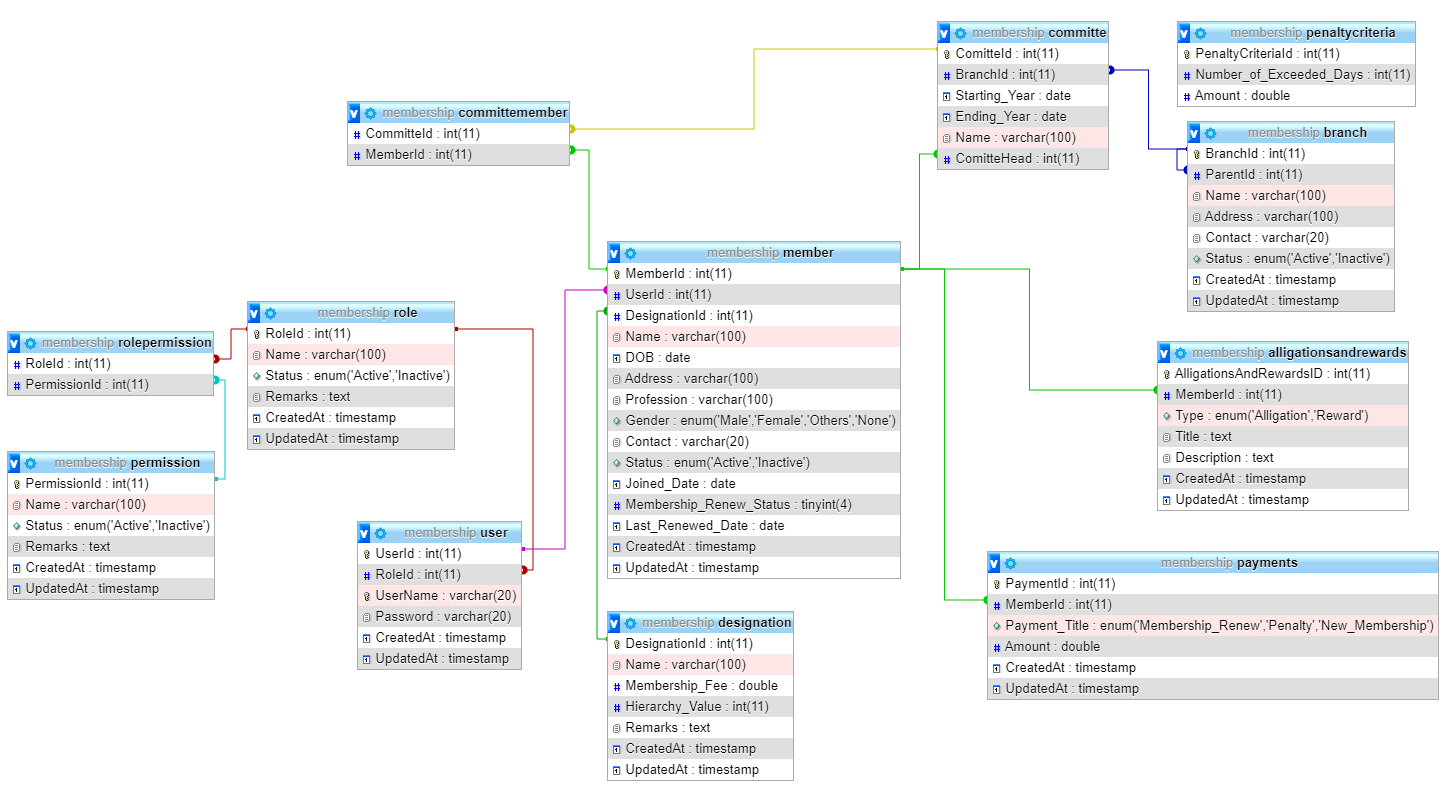
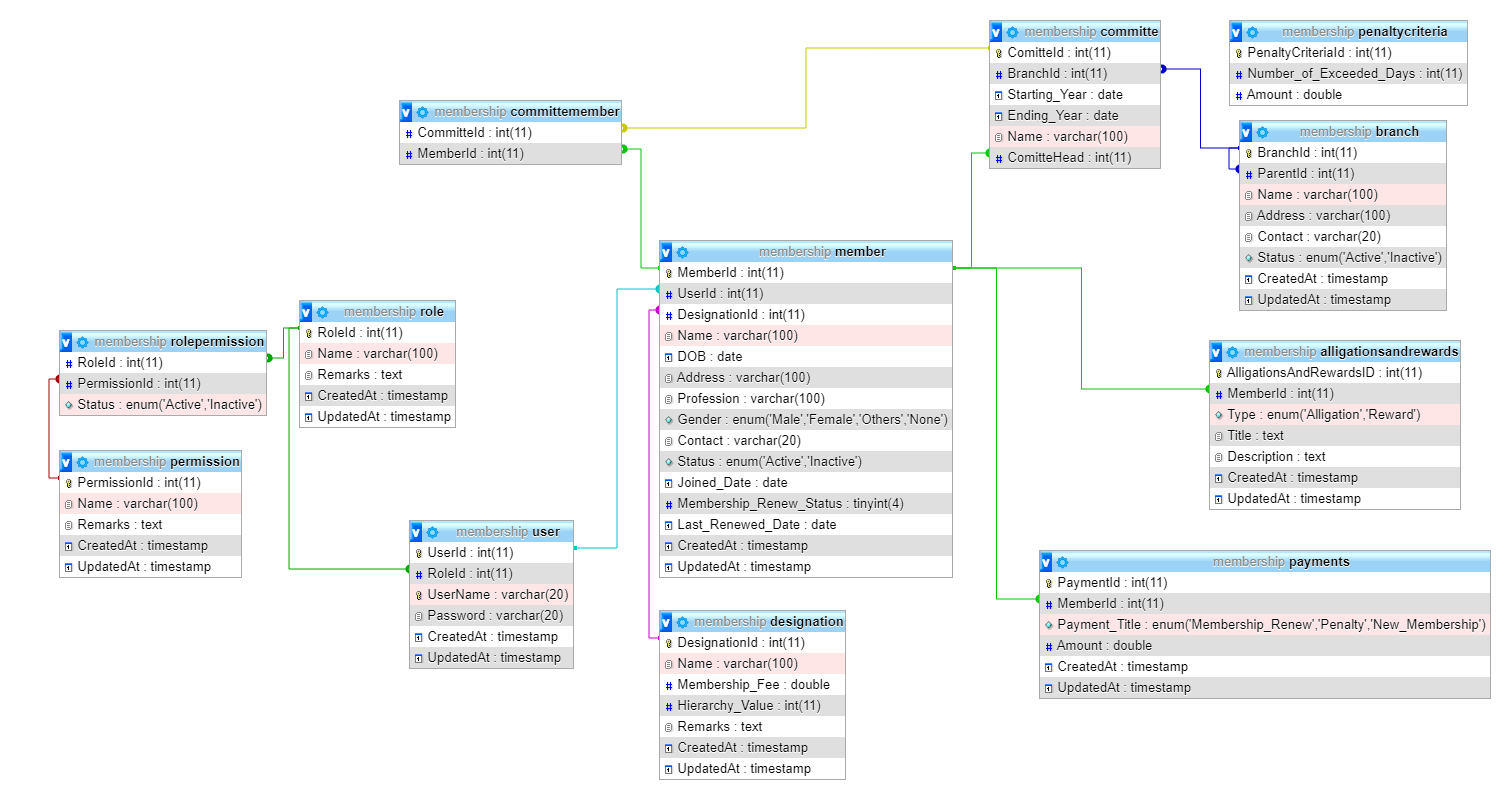
Schema Update and Add Completed
Bulk Entry Completed and Minor Bug-fix

diff --git a/Controller/RolePermission.js b/Controller/RolePermission.js
@@ -7,28 +7,32 @@ const { express, check, validationResult, queryBox, Exe, Error, isLoggedIn } = r
 // Return List of All Roles and Permission as Json Dataset
 rolePermissionRouter.get('/', isLoggedIn, (request, response) => {
     let page = parseInt(request.query.page) || 1;
-    const { paginate, count } = require('../Database/ExtraQuery'),
-        offset = (page - 1) * parseInt(SELECT_LIMIT);
     if (page != null) {
-        count(queryBox.RolePermisionCount, [parseInt(request.session.UserInfromation.RoleId), parseInt(SELECT_LIMIT), parseInt(offset)], (result) => {
+        const { paginate, count } = require('../Database/ExtraQuery'),
+            offset = (page - 1) * parseInt(SELECT_LIMIT);
+        count(queryBox.RolePermisionCountALL, [parseInt(request.session.UserInfromation.RoleId), parseInt(SELECT_LIMIT), parseInt(offset)], (result) => {
             if (response)
-                paginate(request.baseUrl, request.url, page, queryBox.RolePermisionPaginated, [parseInt(request.session.UserInfromation.RoleId), parseInt(SELECT_LIMIT), parseInt(offset)], result.result.Total_Count, (res) => {
-                    response.render('rolePermission', {
-                        title: 'Roles And Permission',
+                paginate(request.baseUrl, request.url, page, queryBox.RolePermisionPaginated, [parseInt(SELECT_LIMIT), parseInt(offset)], result.result.Total_Count, (res) => {
+                    request.session.RolePermissionInformation = res.response;
+                    console.log(res.response)
+                    response.render('RolePermission/rolePermission', {
+                        title: 'Roles Permission',
                         layout: 'main',
+                        link: "/RolePermission",
                         UserInfromation: request.session.UserInfromation,
                         LoginInformation: request.session.LoginInformation,
-                        RoleInformation: res.response
+                        RolePermissionInformation: res.response
                     });
                 });
         });
     } else {
-        response.render('rolePermission', {
-            title: 'Roles And Permission',
+        response.render('RolePermission/rolePermission', {
+            title: 'Roles Permission',
             layout: 'main',
+            link: "/RolePermission",
             UserInfromation: request.session.UserInfromation,
             LoginInformation: request.session.LoginInformation,
-            RoleInformation: {
+            RolePermissionInformation: {
                 success: false,
                 status: 400,
                 message: "Role or page missing!"
@@ -38,8 +42,105 @@ rolePermissionRouter.get('/', isLoggedIn, (request, response) => {
 });
 
 // Role Permission Edit request
-rolePermissionRouter.get('/editRolePermission', isLoggedIn, (request, response) => {
-    console.log(request.params, request.query, request.body, request.session)
+rolePermissionRouter.get('/action/:Task', isLoggedIn, (request, response) => {
+    // Extracting to define the condition
+    const { Task } = request.params;
+    const { Role, Permission } = request.query;
+    // Check if task is null
+    if (Task != null) {
+        // Fetch Roles and Permission Details to load in form
+        const multipleQueries = `${queryBox.RoleSelectAll}; ${queryBox.PermissionSelectAll}`;
+        Exe.queryExecuator(multipleQueries, null, (error, result) => {
+            if (error != null) Error.log(error);
+            // Check if Result is not null
+            if (result) {
+                const rolePermissionObject = { Role: result[0], Permission: result[1] };
+                // Check if task is add or edit
+                if (Task == 'edit') {
+                    // check if Role and permission are passed
+                    if (Role != null && Permission != null) {
+                        // Fetch Role Permission details matching role and permission and send it as well
+
+
+
+                    } else response.redirect('/RolePermission');
+                } else if (Task == 'add') {
+                    // Render Add form
+                    response.render('RolePermission/addEditRolePermission', {
+                        title: 'Roles Permission',
+                        layout: 'main',
+                        pageType: Task,
+                        subTitle: "Add",
+                        link: "/RolePermission",
+                        UserInfromation: request.session.UserInfromation,
+                        LoginInformation: request.session.LoginInformation,
+                        RolePermissionList: rolePermissionObject
+                    });
+
+                } else response.redirect('/RolePermission');
+            }
+        });
+    } else response.redirect('/RolePermission');
+});
+
+rolePermissionRouter.post('/Entry', [
+    check('Task')
+    .notEmpty()
+    .withMessage('Task is Required to set Role Permission!'),
+    check('RoleId')
+    .notEmpty()
+    .withMessage('Role is Required to set Role Permission!'),
+    check('PermissionId')
+    .notEmpty()
+    .withMessage('Permission is Required to set Role Permission!'),
+    check('Status')
+    .notEmpty()
+    .withMessage('Status is Required to set Role Permission')
+], isLoggedIn, (request, response) => {
+    // Extracted Elements from request body
+    const { Task, RoleId, PermissionId, Status } = request.body;
+    const errors = validationResult(request);
+    if (errors.isEmpty()) {
+        if (Task == 'add') {
+            // Perform Add operation
+            let sqlParams = "";
+            for (let index = 0; index < PermissionId.length; index++) {
+                const element = PermissionId[index];
+                sqlParams += `(${RoleId},${element},'${Status}'), `;
+            }
+            sqlParams = sqlParams.substr(0, sqlParams.lastIndexOf(','));
+            sqlParams = queryBox.BulkInsertRolePermission + sqlParams;
+            // Executing Sql Query
+            Exe.queryExecuator(sqlParams, null, (error, result) => {
+                if (error != null) Error.log(error);
+                if (result) response.redirect('/RolePermission');
+            });
+        } else if (Task == 'edit') {
+            console.log(Task, RoleId, PermissionId, Status)
+                // Perform edit operation
+
+
+
+
+        } else response.render('RolePermission/rolePermission', {
+            title: 'Roles Permission',
+            layout: 'main',
+            link: "/RolePermission",
+            errors: [{ msg: `Invalid Request, Try again later!` }],
+            UserInfromation: request.session.UserInfromation,
+            LoginInformation: request.session.LoginInformation,
+            RolePermissionInformation: request.session.RolePermissionInformation
+        });
+    } else
+        response.render('RolePermission/rolePermission', {
+            title: 'Roles Permission',
+            layout: 'main',
+            link: "/RolePermission",
+            errors: errors.array(),
+            UserInfromation: request.session.UserInfromation,
+            LoginInformation: request.session.LoginInformation,
+            RolePermissionInformation: request.session.RolePermissionInformation
+        });
 });
 
 module.exports = rolePermissionRouter;

diff --git a/Controller/Authentication.js b/Controller/Authentication.js
@@ -26,6 +26,7 @@ authenticationRouter.get('/Dashboard', isLoggedIn, (request, response) => {
     const { UserName } = request.query;
     if (UserName.length != 0 && request.session.LoginInformation != undefined && request.session.UserInfromation != undefined) {
         if (UserName == request.session.LoginInformation.UserName && request.session.UserInfromation.UserName == UserName) {
+            // Need to fetch all the role permission associated with user using RolePermisionByRoleId
             Exe.queryExecuator(queryBox.RolePermisionByRoleId, request.session.UserInfromation.RoleId, (error, result) => {
                 if (error != null) Error.log(error);
                 if (result)

diff --git a/Database/ExtraQuery.js b/Database/ExtraQuery.js
@@ -19,8 +19,8 @@ function paginate(base_url, current_url, page, sqlQuery, params, total_length, c
             if (error != null) Error.log(error);
             if (result) {
                 const length = result.length,
-                    total_pages = Math.ceil(parseInt(total_length) / length),
-                    limit = parseInt(SELECT_LIMIT);
+                    limit = parseInt(SELECT_LIMIT),
+                    total_pages = Math.ceil(parseInt(total_length) / limit);
                 if (page != null && page >= 1)
                     return callback({
                         response: {

diff --git a/server.init.js b/server.init.js
@@ -35,6 +35,12 @@ const handleBars = expressHandleBars.create({
         },
         SN: function(value, options) {
             return parseInt(value + 1);
+        },
+        ToUpper: function(value, options) {
+            return value.toString().toUpperCase();
+        },
+        ToFirstUpper: function(value, options) {
+            return value.charAt(0).toUpperCase() + value.slice(1);
         }
     }
 

diff --git a/Database/QueryExe.js b/Database/QueryExe.js
@@ -24,7 +24,8 @@ let
         port: DB_PORT,
         user: DB_USER,
         password: DB_PASSWORD || null,
-        database: DB_NAME
+        database: DB_NAME,
+        multipleStatements: true
     },
     sql_connection = sql.createConnection(sql_con_obj);
 

diff --git a/ReadMe.MD b/ReadMe.MD
@@ -64,14 +64,12 @@ A Basic database Schema Concept is Explained Below.
 
 [Role]---------> RoleID [PK]
          |-----> Name [Varchar(100)]
-         |-----> Status [Enum(Active,Inactive)]
          |-----> Remarks [Text]
          |-----> CreatedAt [TimeStamp]
          |-----> UpdatedAt [TimeStamp(ON Update)]
 
 [Permission]---> PermissionId [PK]
          |-----> Name [Varchar(100)]
-         |-----> Status [Enum(Active,Inactive)]
          |-----> Remarks [Text]
          |-----> CreatedAt [TimeStamp]
          |-----> UpdatedAt [TimeStamp(ON Update)]
@@ -79,6 +77,7 @@ A Basic database Schema Concept is Explained Below.
 [RolePermission]
          |-----> RoleID [FK]
          |-----> PermissionId [FK]
+         |-----> Status [Enum(Active,Inactive)]
 
 [User]-------> UserID [PK]
          |-----> RoleID [FK]
